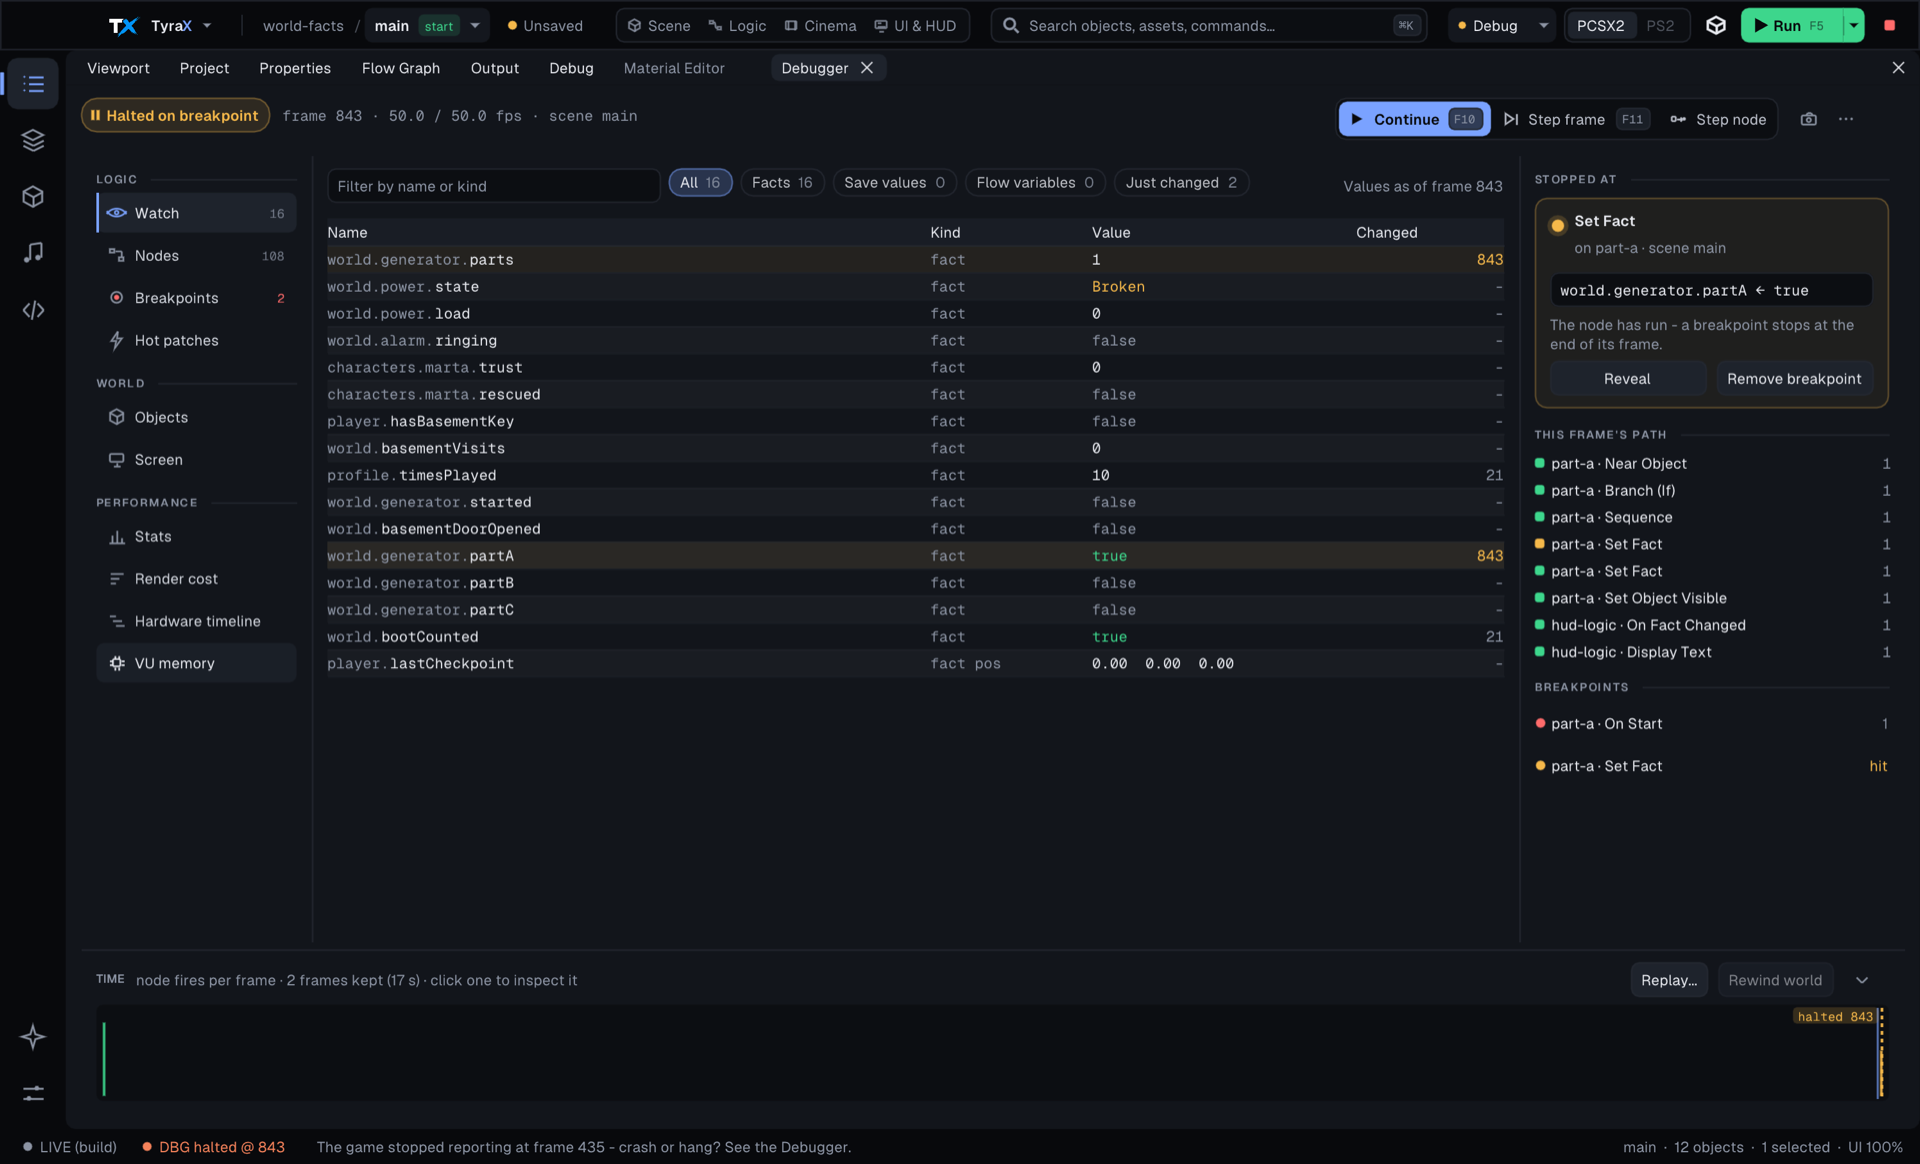
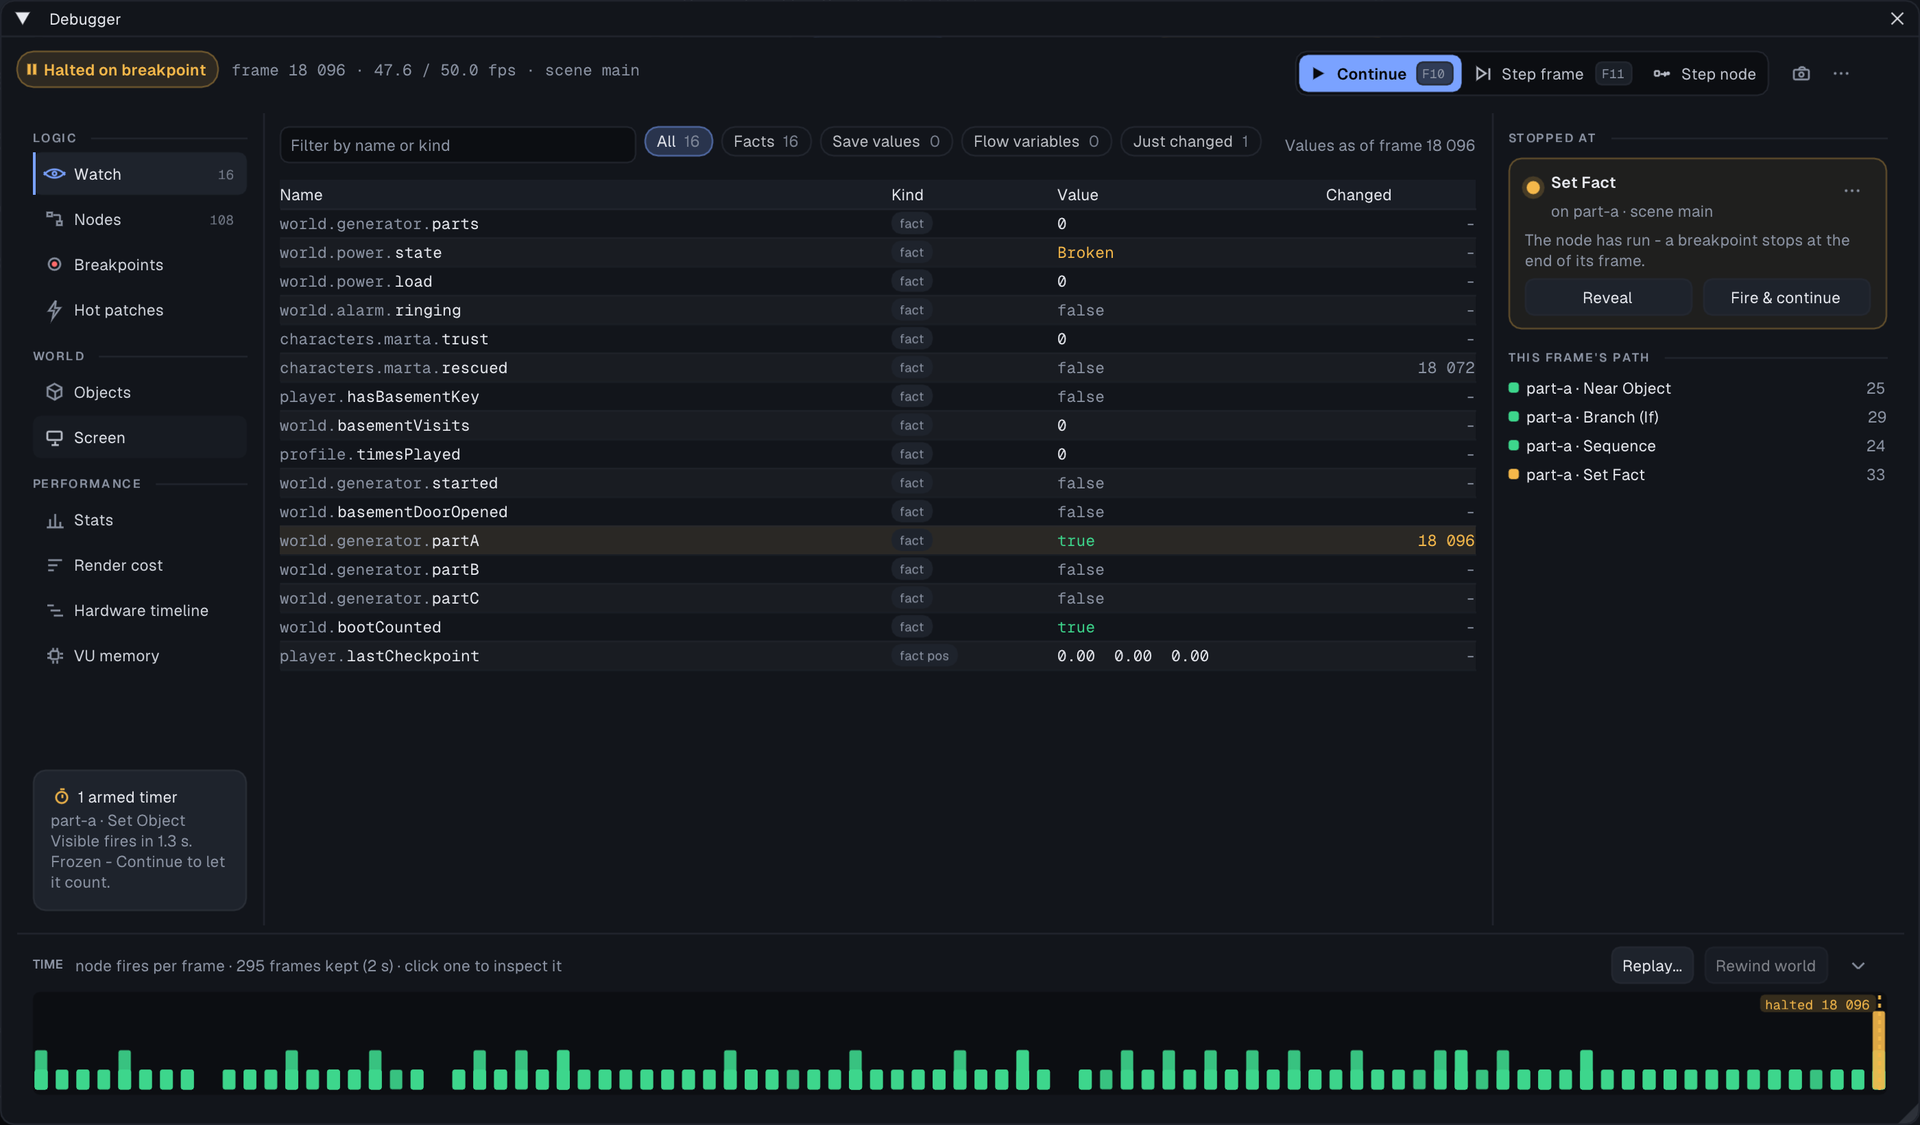
Debugger: Kind chips, Fire & continue on the Stopped-at card for actions
Debugger-Halted.dc.html shows the Watch table's kind as chips and the
Stopped-at card's buttons as Reveal + Fire & continue - on a Set Fact, an
action. The editor printed the kind as dim mono text and offered Fire &
continue only when the stopped node was a trigger, "Remove breakpoint"
otherwise.

- Kind column: ui::Badge chips in the UI face.
- Fire & continue for an action: codegen can only force-fire a TRIGGER
  (its branch is emitted under livedbg::forced), so the card walks the exec
  links backwards to the trigger whose chain reaches the node and fires that
  with fireAndRun (tooltip names it). No trigger upstream -> plain Continue.
- Remove breakpoint moved into a "..." menu at the card's top right
  (`Breakpoint options`).
- docs/live-debugger.md + docs/img/live-debugger.png retaken.

Verified: world-facts copy, --refresh-gen, fakedbg.py halt (stops on key 3,
part-a Set Fact): card shows Reveal | Fire & continue and the "..." menu with
Remove breakpoint; clicking Fire & continue wrote bin/livedbg.cmd with flags 4
(fireAndRun) and force-fire key 0 = part-a's Near Object, the trigger of the
Near Object > Branch > Sequence > Set Fact chain.

diff --git a/src/devkit_ui.cpp b/src/devkit_ui.cpp
@@ -2066,6 +2066,19 @@ void App::dbgDrawStoppedAt(bool showPath) {
         }
         ImGui::EndGroup();
         if (n) {
+            // "..." at the card's top right: the breakpoint's own actions,
+            // so the two buttons below stay Reveal + Fire & continue.
+            const float ib = ImGui::GetFrameHeight();
+            ImGui::SameLine(ImGui::GetContentRegionMax().x - ib);
+            ImGui::SetCursorScreenPos(ImVec2(ImGui::GetCursorScreenPos().x, p.y));
+            if (ui::IconButton("Breakpoint options", ui::RtIcon::More, ib))
+                ImGui::OpenPopup("##stopped_more");
+            if (ImGui::BeginPopup("##stopped_more")) {
+                if (ImGui::MenuItem("Remove breakpoint")) dbgToggleBreakpoint(n->objectId, n->nodeId);
+                ImGui::EndPopup();
+            }
+        }
+        if (n) {
             // What the node DID, when the game said so: a World Fact write
             // carries the node that made it (FactEvent::src), so a Set Fact
             // breakpoint reads as "name <- value", not as a node title.
@@ -2100,14 +2113,62 @@ void App::dbgDrawStoppedAt(bool showPath) {
             if (ImGui::IsItemHovered(ImGuiHoveredFlags_ForTooltip))
                 ImGui::SetTooltip("Open this node's graph in the Flow Graph window.");
             ImGui::SameLine();
+            // Fire & continue fires a TRIGGER (codegen emits only a trigger's
+            // branch under livedbg::forced). An action stopped on is fired
+            // through the trigger whose exec chain reaches it - the branch it
+            // is on - found by walking the exec links backwards.
+            int fireKey = -1;
+            const char* fireTitle = nullptr;
             const FlowNodeType* t = flowNodeType(n->type);
             if (t && t->trigger) {
-                if (ImGui::Button("Fire & continue", ImVec2(half, 0))) dbgFireNode(dbgSnap_.breakKey, true);
+                fireKey = dbgSnap_.breakKey;
+            } else if (n->scene >= 0 && n->scene < (int)project_.scenes.size()) {
+                const FlowGraph* g = nullptr;
+                for (const SceneObject& o : project_.scenes[(size_t)n->scene].objects)
+                    if (o.id == n->objectId) g = &o.flowGraph;
+                if (g) {
+                    std::vector<int> todo = {n->nodeId}, seen;
+                    while (!todo.empty() && fireKey < 0) {
+                        const int id = todo.back();
+                        todo.pop_back();
+                        if (std::find(seen.begin(), seen.end(), id) != seen.end()) continue;
+                        seen.push_back(id);
+                        for (const FlowLink& l : g->links) {
+                            if (l.kind != FlowLinkExec || l.toNode != id) continue;
+                            const FlowNode* from = nullptr;
+                            for (const FlowNode& fn : g->nodes)
+                                if (fn.id == l.fromNode) from = &fn;
+                            if (!from) continue;
+                            const FlowNodeType* ft = flowNodeType(from->type);
+                            if (ft && ft->trigger) {
+                                fireKey = dbgKeyFor(n->scene, n->objectId, from->id);
+                                fireTitle = ft->title;
+                                if (fireKey >= 0) break;
+                            } else {
+                                todo.push_back(from->id);
+                            }
+                        }
+                    }
+                }
+            }
+            if (fireKey >= 0) {
+                if (ImGui::Button("Fire & continue", ImVec2(half, 0))) dbgFireNode(fireKey, true);
+                if (ImGui::IsItemHovered(ImGuiHoveredFlags_ForTooltip)) {
+                    if (fireTitle)
+                        ImGui::SetTooltip("Fire %s again - the branch this node is on - and let\n"
+                                          "the game run, so a Delay in it gets frames to finish.",
+                                          fireTitle);
+                    else
+                        ImGui::SetTooltip("Fire this trigger once more and let the game run,\n"
+                                          "so a Delay in its branch gets frames to finish.");
+                }
+            } else {
+                // Nothing upstream to fire (an action no trigger reaches):
+                // the card's second action is plain Continue.
+                if (ImGui::Button("Continue##stopped", ImVec2(half, 0))) dbgSetTransport(0);
                 if (ImGui::IsItemHovered(ImGuiHoveredFlags_ForTooltip))
-                    ImGui::SetTooltip("Fire this trigger once more and let the game run,\n"
-                                      "so a Delay in its branch gets frames to finish.");
-            } else if (ImGui::Button("Remove breakpoint", ImVec2(half, 0))) {
-                dbgToggleBreakpoint(n->objectId, n->nodeId);
+                    ImGui::SetTooltip("No trigger reaches this node, so there is nothing to fire.\n"
+                                      "Lets the game run on (F10).");
             }
         }
         ImGui::EndChild();
@@ -2346,7 +2407,11 @@ void App::dbgDrawWatchPage() {
                 ImGui::TextUnformatted(v.name.c_str());
             }
             ImGui::TableSetColumnIndex(1);
-            ImGui::TextColored(sem.textDim, "%s", dbgKindText(v.kind));
+            // The kind as a chip (Debugger-Halted design), in the UI face:
+            // the row's mono is for names and values.
+            ImGui::PushFont(ImGui::GetDefaultFont(), 0.0f);
+            ui::Badge(dbgKindText(v.kind), 4);
+            ImGui::PopFont();
             ImGui::TableSetColumnIndex(2);
             int tone = 0;
             const std::string val = live || dbgScrub_ >= 0 ? dbgValueText(project_, v, *vals, i, &tone) : "-";

diff --git a/docs/live-debugger.md b/docs/live-debugger.md
@@ -159,8 +159,11 @@ ticked or with its fix next to it (*Switch to debug*, the Live Debugger switch)
 
 **Halted** shows a *Stopped at* card: the node, its object and scene, what the
 node did when the game says so (a *Set Fact* reads `world.generator.partA ←
-true`), *Reveal* (open its graph), and *Fire & continue* for a trigger or
-*Remove breakpoint* otherwise. Under it, **This frame's path** — the nodes that
+true`), *Reveal* (open its graph), and *Fire & continue*: a trigger fires
+itself; an action fires the trigger whose chain reaches it (the branch it is
+on - the tooltip names it), and the game runs on. An action no trigger
+reaches gets plain *Continue* there instead. *Remove breakpoint* is in the
+card's **...** menu. Under it, **This frame's path** — the nodes that
 ran in that frame, in order, with their hit counts, the stopping one in amber —
 and the breakpoint list with the one that was hit marked.
 
@@ -177,7 +180,8 @@ The pages:
   one). Values are printed the way the thing is **declared**: a position is
   three coordinates, a yes/no fact is `true`/`false`, a one-of-several fact is
   its option's name. Inspecting a past frame on the time strip shows the values
-  as of that frame. On a narrow dock the *Kind* column is dropped.
+  as of that frame. The *Kind* column shows each row's kind as a chip
+  (`fact`, `int`, `save`...); on a narrow dock it is dropped.
 - **Nodes** — the current graph's runnable nodes: hit counts, breakpoints, Fire,
   and the frames left on an armed `Delay`.
 - **Breakpoints** — the whole project's list with hit counts; click one to jump
